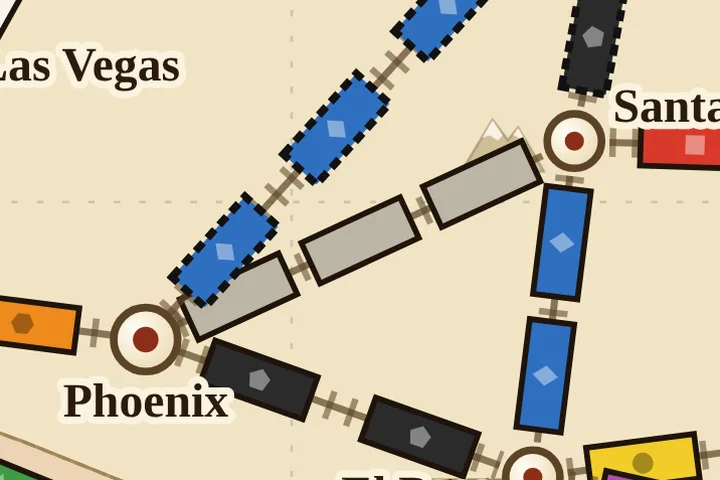
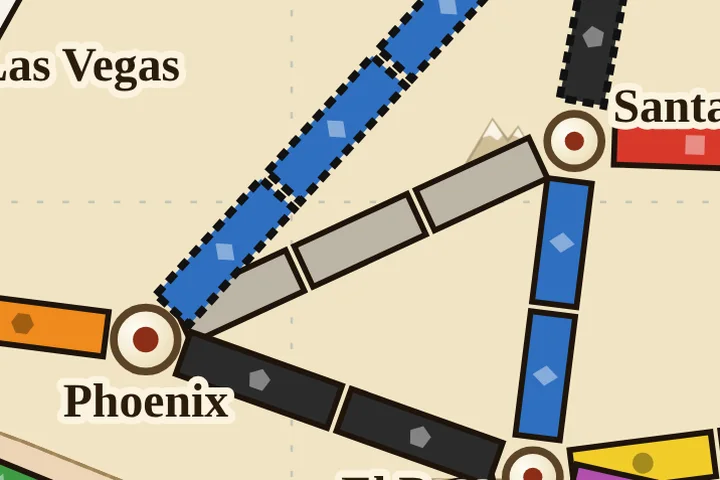
Đường Ray: trả lại ô tuyến liền nhau như cũ, giữ uốn cong tuyến ngắn/đè thành phố
Claude-Session: https://claude.ai/code/session_01C6iMujCmX6wKKq45Tr3EAE

diff --git a/games/duong-ray-chau-au/luat.html b/games/duong-ray-chau-au/luat.html
@@ -122,7 +122,7 @@ footer{text-align:center;color:#e9d6ae;font-size:14px;margin-top:10px}
 <p>Bạn và các đối thủ thi nhau xây mạng lưới đường sắt khắp châu Âu. Mỗi lượt bạn gom bài toa tàu cùng màu để chiếm các tuyến nối giữa hai thành phố, ghi điểm ngay khi chiếm. Bạn còn giữ các <b>vé hành trình</b>: nối được hai thành phố trên vé bằng tàu của mình thì cộng điểm, không nối được thì bị trừ.</p>
 <p>Bản đồ châu Âu có <b>49 thành phố</b>, 106 làn tuyến (trong đó 12 cặp đường đôi), <b>10 đường hầm</b> và <b>15 tuyến phà</b>. Tuyến dài nhất dài 5 ô.</p>
 
-<img class="shot" src="assets/rules/ui.webp?v=8" alt="Màn hình chơi Đường Ray Châu Âu" loading="lazy">
+<img class="shot" src="assets/rules/ui.webp?v=9" alt="Màn hình chơi Đường Ray Châu Âu" loading="lazy">
 <p class="cap">Màn hình chơi: người chơi ở trên, bản đồ ở giữa, bên phải là chỗ lấy bài, vé của bạn và nhật ký.</p></section><section class="box" id="thanh-phan"><h2><span class="no">2</span>Thành phần</h2>
 <div class="tw"><table class="t">
 <tr><th>Thành phần</th><th>Số lượng và công dụng</th></tr>
@@ -193,18 +193,18 @@ footer{text-align:center;color:#e9d6ae;font-size:14px;margin-top:10px}
 </ul>
 <div class="pts" style="--n:5"><div><span class="len"><i></i></span><b>1 ô</b><strong>1</strong><b>điểm</b></div><div><span class="len"><i></i><i></i></span><b>2 ô</b><strong>2</strong><b>điểm</b></div><div><span class="len"><i></i><i></i><i></i></span><b>3 ô</b><strong>4</strong><b>điểm</b></div><div><span class="len"><i></i><i></i><i></i><i></i></span><b>4 ô</b><strong>7</strong><b>điểm</b></div><div><span class="len"><i></i><i></i><i></i><i></i><i></i></span><b>5 ô</b><strong>10</strong><b>điểm</b></div></div>
 <div class="fig">
-  <div><img class="shot" src="assets/rules/claim.webp?v=8" alt="" loading="lazy"><p class="cap">Tuyến Paris–Marseille (Tím, 4 ô) đã bị chiếm: đoàn tàu của người chơi Đỏ nằm đè lên tuyến.</p></div>
+  <div><img class="shot" src="assets/rules/claim.webp?v=9" alt="" loading="lazy"><p class="cap">Tuyến Paris–Marseille (Tím, 4 ô) đã bị chiếm: đoàn tàu của người chơi Đỏ nằm đè lên tuyến.</p></div>
   <div class="vd" style="margin:0">Để chiếm tuyến Paris–Marseille màu Tím dài 4 ô, bạn đánh 3 lá Tím và 1 Đầu máy. Bạn đặt 4 toa, ghi ngay 7 điểm và còn 41 toa.
   <div class="hand"><figure class="tc sm"><img src="../../railart/cards/purple.webp" alt="Tím" loading="lazy"></figure><figure class="tc sm"><img src="../../railart/cards/purple.webp" alt="Tím" loading="lazy"></figure><figure class="tc sm"><img src="../../railart/cards/purple.webp" alt="Tím" loading="lazy"></figure><figure class="tc sm"><img src="../../railart/cards/loco.webp" alt="Đầu máy" loading="lazy"></figure></div></div>
 </div>
 <div class="fig">
-  <div><img class="shot" src="assets/rules/gray.webp?v=8" alt="" loading="lazy"><p class="cap">Tuyến xám Amsterdam–Frankfurt dài 2 ô.</p></div>
+  <div><img class="shot" src="assets/rules/gray.webp?v=9" alt="" loading="lazy"><p class="cap">Tuyến xám Amsterdam–Frankfurt dài 2 ô.</p></div>
   <div class="vd" style="margin:0">Tuyến xám Amsterdam–Frankfurt dài 2 ô trả bằng 2 lá Vàng, hoặc 2 lá Đen… miễn cùng một màu. Không được trả 1 lá Vàng + 1 lá Đen.
   <div class="hand"><span class="lbl">Được:</span><figure class="tc sm"><img src="../../railart/cards/yellow.webp" alt="Vàng" loading="lazy"></figure><figure class="tc sm"><img src="../../railart/cards/yellow.webp" alt="Vàng" loading="lazy"></figure></div></div>
 </div>
 <h4 style="margin:14px 0 4px;color:#7a1a36;font-size:19px">Đường đôi</h4>
 <div class="fig">
-  <div><img class="shot" src="assets/rules/dbl.webp?v=8" alt="" loading="lazy"><p class="cap">Đường đôi Madrid–Barcelona: hai làn song song, làn Trắng và làn Đỏ.</p></div>
+  <div><img class="shot" src="assets/rules/dbl.webp?v=9" alt="" loading="lazy"><p class="cap">Đường đôi Madrid–Barcelona: hai làn song song, làn Trắng và làn Đỏ.</p></div>
   <div><ul>
    <li>Một người <b>không được chiếm cả hai làn</b> của cùng một đường đôi.</li>
    <li>Chơi <b>2 hoặc 3 người</b>: một làn đã bị chiếm thì làn còn lại đóng với mọi người.</li>
@@ -214,7 +214,7 @@ footer{text-align:center;color:#e9d6ae;font-size:14px;margin-top:10px}
 
 <h3 id="duong-ham">Đường hầm</h3>
 <div class="fig">
-  <div><img class="shot" src="assets/rules/tunnel.webp?v=8" alt="" loading="lazy"><p class="cap">Đường hầm có viền <b>nét đứt</b>, ví dụ tuyến Barcelona–Bordeaux (Xanh dương, 3 ô).</p></div>
+  <div><img class="shot" src="assets/rules/tunnel.webp?v=9" alt="" loading="lazy"><p class="cap">Đường hầm có viền <b>nét đứt</b>, ví dụ tuyến Barcelona–Bordeaux (Xanh dương, 3 ô).</p></div>
   <div><ol>
    <li>Đánh bộ bài như chiếm tuyến thường.</li>
    <li>Máy lật <b>3 lá</b> trên cùng chồng bài úp.</li>
@@ -234,7 +234,7 @@ footer{text-align:center;color:#e9d6ae;font-size:14px;margin-top:10px}
 
 <h3 id="pha">Phà</h3>
 <div class="fig">
-  <div><img class="shot" src="assets/rules/ferry.webp?v=8" alt="" loading="lazy"><p class="cap">Tuyến phà London–Amsterdam dài 2 ô, có 2 ô in <b>ngôi sao Đầu máy</b>.</p></div>
+  <div><img class="shot" src="assets/rules/ferry.webp?v=9" alt="" loading="lazy"><p class="cap">Tuyến phà London–Amsterdam dài 2 ô, có 2 ô in <b>ngôi sao Đầu máy</b>.</p></div>
   <div><ul>
    <li>Phà là tuyến vượt biển. Mỗi ô có ngôi sao cần <b>1 lá Đầu máy</b>.</li>
    <li>Các ô còn lại trả bằng bài cùng một màu (phà luôn là tuyến xám).</li>
@@ -250,7 +250,7 @@ footer{text-align:center;color:#e9d6ae;font-size:14px;margin-top:10px}
 
 <h3 id="nha-ga">Việc 4: xây nhà ga</h3>
 <div class="fig">
-  <div><img class="shot" src="assets/rules/station.webp?v=8" alt="" loading="lazy"><p class="cap">Nhà ga Đỏ ở Lisboa. Tuyến Lisboa–Madrid là của người Xanh, hai tuyến Đỏ nằm hai bên.</p></div>
+  <div><img class="shot" src="assets/rules/station.webp?v=9" alt="" loading="lazy"><p class="cap">Nhà ga Đỏ ở Lisboa. Tuyến Lisboa–Madrid là của người Xanh, hai tuyến Đỏ nằm hai bên.</p></div>
   <div><ul>
    <li>Đặt nhà ga lên một thành phố <b>chưa có ga</b> nào. Không cần có tuyến của bạn ở đó.</li>
    <li>Giá tăng dần: ga thứ 1 tốn <b>1 lá</b>, ga thứ 2 tốn <b>2 lá cùng màu</b>, ga thứ 3 tốn <b>3 lá cùng màu</b>. Đầu máy thay được.</li>

diff --git a/games/duong-ray-bac-my/luat.html b/games/duong-ray-bac-my/luat.html
@@ -122,7 +122,7 @@ footer{text-align:center;color:#e9d6ae;font-size:14px;margin-top:10px}
 <p>Bạn và các đối thủ thi nhau xây mạng lưới đường sắt khắp Bắc Mỹ. Mỗi lượt bạn gom bài toa tàu cùng màu để chiếm các tuyến nối giữa hai thành phố, ghi điểm ngay khi chiếm. Bạn còn giữ các <b>vé hành trình</b>: nối được hai thành phố trên vé bằng tàu của mình thì cộng điểm, không nối được thì bị trừ.</p>
 <p>Bản đồ Bắc Mỹ có <b>39 thành phố</b>, 104 làn tuyến (trong đó 21 cặp đường đôi), <b>9 đường hầm</b> và <b>2 tuyến phà</b>. Tuyến dài nhất dài 7 ô.</p>
 <div class="note"><b>Khác với hộp Ticket to Ride USA gốc:</b> bản Bắc Mỹ trên web dùng chung bộ luật đầy đủ với bản Châu Âu, nên vẫn có đường hầm và phà (sang La Habana), nhưng <b>không có nhà ga</b>. Mỗi người nhận 1 vé dài và 3 vé thường lúc đầu.</div>
-<img class="shot" src="assets/rules/ui.webp?v=8" alt="Màn hình chơi Đường Ray Bắc Mỹ" loading="lazy">
+<img class="shot" src="assets/rules/ui.webp?v=9" alt="Màn hình chơi Đường Ray Bắc Mỹ" loading="lazy">
 <p class="cap">Màn hình chơi: người chơi ở trên, bản đồ ở giữa, bên phải là chỗ lấy bài, vé của bạn và nhật ký.</p></section><section class="box" id="thanh-phan"><h2><span class="no">2</span>Thành phần</h2>
 <div class="tw"><table class="t">
 <tr><th>Thành phần</th><th>Số lượng và công dụng</th></tr>
@@ -166,18 +166,18 @@ footer{text-align:center;color:#e9d6ae;font-size:14px;margin-top:10px}
 </ul>
 <div class="pts" style="--n:7"><div><span class="len"><i></i></span><b>1 ô</b><strong>1</strong><b>điểm</b></div><div><span class="len"><i></i><i></i></span><b>2 ô</b><strong>2</strong><b>điểm</b></div><div><span class="len"><i></i><i></i><i></i></span><b>3 ô</b><strong>4</strong><b>điểm</b></div><div><span class="len"><i></i><i></i><i></i><i></i></span><b>4 ô</b><strong>7</strong><b>điểm</b></div><div><span class="len"><i></i><i></i><i></i><i></i><i></i></span><b>5 ô</b><strong>10</strong><b>điểm</b></div><div><span class="len"><i></i><i></i><i></i><i></i><i></i><i></i></span><b>6 ô</b><strong>15</strong><b>điểm</b></div><div><span class="len"><i></i><i></i><i></i><i></i><i></i><i></i><i></i></span><b>7 ô</b><strong>18</strong><b>điểm</b></div></div>
 <div class="fig">
-  <div><img class="shot" src="assets/rules/claim.webp?v=8" alt="" loading="lazy"><p class="cap">Tuyến El Paso–Dallas (Vàng, 4 ô) đã bị chiếm: đoàn tàu của người chơi Đỏ nằm đè lên tuyến.</p></div>
+  <div><img class="shot" src="assets/rules/claim.webp?v=9" alt="" loading="lazy"><p class="cap">Tuyến El Paso–Dallas (Vàng, 4 ô) đã bị chiếm: đoàn tàu của người chơi Đỏ nằm đè lên tuyến.</p></div>
   <div class="vd" style="margin:0">Để chiếm tuyến El Paso–Dallas màu Vàng dài 4 ô, bạn đánh 3 lá Vàng và 1 Đầu máy. Bạn đặt 4 toa, ghi ngay 7 điểm và còn 41 toa.
   <div class="hand"><figure class="tc sm"><img src="../../railart/cards/yellow.webp" alt="Vàng" loading="lazy"></figure><figure class="tc sm"><img src="../../railart/cards/yellow.webp" alt="Vàng" loading="lazy"></figure><figure class="tc sm"><img src="../../railart/cards/yellow.webp" alt="Vàng" loading="lazy"></figure><figure class="tc sm"><img src="../../railart/cards/loco.webp" alt="Đầu máy" loading="lazy"></figure></div></div>
 </div>
 <div class="fig">
-  <div><img class="shot" src="assets/rules/gray.webp?v=8" alt="" loading="lazy"><p class="cap">Tuyến xám Phoenix–Santa Fe dài 3 ô.</p></div>
+  <div><img class="shot" src="assets/rules/gray.webp?v=9" alt="" loading="lazy"><p class="cap">Tuyến xám Phoenix–Santa Fe dài 3 ô.</p></div>
   <div class="vd" style="margin:0">Tuyến xám Phoenix–Santa Fe dài 3 ô trả bằng 3 lá Vàng, hoặc 3 lá Đen… miễn cùng một màu. Không được trả 2 lá Vàng + 1 lá Đen.
   <div class="hand"><span class="lbl">Được:</span><figure class="tc sm"><img src="../../railart/cards/yellow.webp" alt="Vàng" loading="lazy"></figure><figure class="tc sm"><img src="../../railart/cards/yellow.webp" alt="Vàng" loading="lazy"></figure><figure class="tc sm"><img src="../../railart/cards/yellow.webp" alt="Vàng" loading="lazy"></figure></div></div>
 </div>
 <h4 style="margin:14px 0 4px;color:#7a1a36;font-size:19px">Đường đôi</h4>
 <div class="fig">
-  <div><img class="shot" src="assets/rules/dbl.webp?v=8" alt="" loading="lazy"><p class="cap">Đường đôi San Francisco–Los Angeles: hai làn song song, làn Trắng và làn Đỏ.</p></div>
+  <div><img class="shot" src="assets/rules/dbl.webp?v=9" alt="" loading="lazy"><p class="cap">Đường đôi San Francisco–Los Angeles: hai làn song song, làn Trắng và làn Đỏ.</p></div>
   <div><ul>
    <li>Một người <b>không được chiếm cả hai làn</b> của cùng một đường đôi.</li>
    <li>Chơi <b>2 hoặc 3 người</b>: một làn đã bị chiếm thì làn còn lại đóng với mọi người.</li>
@@ -187,7 +187,7 @@ footer{text-align:center;color:#e9d6ae;font-size:14px;margin-top:10px}
 
 <h3 id="duong-ham">Đường hầm</h3>
 <div class="fig">
-  <div><img class="shot" src="assets/rules/tunnel.webp?v=8" alt="" loading="lazy"><p class="cap">Đường hầm có viền <b>nét đứt</b>, ví dụ tuyến Vancouver–Calgary (Cam, 3 ô).</p></div>
+  <div><img class="shot" src="assets/rules/tunnel.webp?v=9" alt="" loading="lazy"><p class="cap">Đường hầm có viền <b>nét đứt</b>, ví dụ tuyến Vancouver–Calgary (Cam, 3 ô).</p></div>
   <div><ol>
    <li>Đánh bộ bài như chiếm tuyến thường.</li>
    <li>Máy lật <b>3 lá</b> trên cùng chồng bài úp.</li>
@@ -207,7 +207,7 @@ footer{text-align:center;color:#e9d6ae;font-size:14px;margin-top:10px}
 
 <h3 id="pha">Phà</h3>
 <div class="fig">
-  <div><img class="shot" src="assets/rules/ferry.webp?v=8" alt="" loading="lazy"><p class="cap">Tuyến phà New Orleans–La Habana dài 4 ô, có 2 ô in <b>ngôi sao Đầu máy</b>.</p></div>
+  <div><img class="shot" src="assets/rules/ferry.webp?v=9" alt="" loading="lazy"><p class="cap">Tuyến phà New Orleans–La Habana dài 4 ô, có 2 ô in <b>ngôi sao Đầu máy</b>.</p></div>
   <div><ul>
    <li>Phà là tuyến vượt biển. Mỗi ô có ngôi sao cần <b>1 lá Đầu máy</b>.</li>
    <li>Các ô còn lại trả bằng bài cùng một màu (phà luôn là tuyến xám).</li>

diff --git a/games/duong-ray-bac-my/index.html b/games/duong-ray-bac-my/index.html
@@ -2164,12 +2164,11 @@ function routeSym(k,col){
   return k==='loco' ? `<g fill="${f}" stroke="#2a1200" stroke-width=".9" stroke-linejoin="round" pointer-events="none" transform="scale(1.95)">${d}</g>` : `<g fill="${f}" opacity="${o}" pointer-events="none">${d}</g>`;
 }
 function routeSVG(r, afford, now){
-  const g=routeGeom(r); const pad=13; const seg=(g.d-2*pad)/r.len; const w=RG_BOX;
+  const g=routeGeom(r); const pad=13; const seg=(g.d-2*pad)/r.len; const w=rgPitch(g,r.len)-3;
   const owner=G.owner[r.id]; const canClick = owner==null && isMyTurn() && !UIS.stationMode;
   const t=UIS.claimAt[r.id]; const el = t!=null ? now-t : 1e9; const fresh = el<2600 && G.owner[r.id]!=null;
   let s=`<g class="route ${canClick?'clickable':''} ${afford.has(r.id)?'afford':''} ${fresh?'glow':''}" data-id="${r.id}" ${fresh?`style="--gc:${G.players[owner].color};animation-delay:${-el}ms"`:''}>`;
   s+=`<path d="${g.path(pad,g.d-pad)}" fill="none" stroke="transparent" stroke-width="${HIT_W}"/>`;
-  if (owner==null){ const tp=g.path(pad-2,g.d-pad+2); s+=`<path d="${tp}" fill="none" stroke="#5b4327" stroke-width="9" stroke-dasharray="2 5" opacity=".55" pointer-events="none"/><path d="${tp}" fill="none" stroke="#5b4327" stroke-width="2.2" opacity=".7" pointer-events="none" transform="translate(0,0)"/>`; }
   const DK = .68; /* mọi đoàn tàu cùng cỡ, vừa làn đường đôi */
   if (owner!=null){ const pd=g.path(pad+1, g.d-pad-1);
     s+=`<g class="${fresh?'pop':''}" pointer-events="none"><path d="${pd}" fill="none" stroke="#fff" stroke-width="17" stroke-linecap="round" opacity=".95"/><path d="${pd}" fill="none" stroke="#111" stroke-width="${(24*DK).toFixed(1)}" stroke-linecap="round"/><path d="${pd}" fill="none" stroke="${G.players[owner].color}" stroke-width="6" stroke-linecap="round" opacity=".55"/></g>`; }
@@ -2177,7 +2176,7 @@ function routeSVG(r, afford, now){
     const tt=g.d/2+(i+0.5-r.len/2)*rgPitch(g,r.len); const q=g.at(tt); const cx=q.x.toFixed(1), cy=q.y.toFixed(1); let ga=q.ang; if(ga>90) ga-=180; if(ga<-90) ga+=180;
     s+=`<g transform="translate(${cx},${cy}) rotate(${ga.toFixed(1)})">`;
     if (owner!=null){
-      const col=G.players[owner].color, h=19*DK, W=RG_BOX+1, win=Math.min(6,W/4.5)*(DK<1?.8:1);
+      const col=G.players[owner].color, h=19*DK, W=rgPitch(g,r.len)-1.5, win=Math.min(6,W/4.5)*(DK<1?.8:1);
       const delay = fresh ? ((i+.5)/r.len*TRAIN_RUN_MS - el) : 0;
       s+=`<g class="${fresh?'pop':''}" ${fresh?`style="animation-delay:${delay.toFixed(0)}ms"`:''}>
         <rect x="${-W/2}" y="${-h/2}" width="${W}" height="${h}" rx="3.5" fill="${col}" stroke="#0b0b0b" stroke-width="2.6"/>

diff --git a/games/duong-ray-chau-au/index.html b/games/duong-ray-chau-au/index.html
@@ -2169,12 +2169,11 @@ function routeSym(k,col){
   return k==='loco' ? `<g fill="${f}" stroke="#2a1200" stroke-width=".9" stroke-linejoin="round" pointer-events="none" transform="scale(1.95)">${d}</g>` : `<g fill="${f}" opacity="${o}" pointer-events="none">${d}</g>`;
 }
 function routeSVG(r, afford, now){
-  const g=routeGeom(r); const pad=13; const seg=(g.d-2*pad)/r.len; const w=RG_BOX;
+  const g=routeGeom(r); const pad=13; const seg=(g.d-2*pad)/r.len; const w=rgPitch(g,r.len)-3;
   const owner=G.owner[r.id]; const canClick = owner==null && isMyTurn() && !UIS.stationMode;
   const t=UIS.claimAt[r.id]; const el = t!=null ? now-t : 1e9; const fresh = el<2600 && G.owner[r.id]!=null;
   let s=`<g class="route ${canClick?'clickable':''} ${afford.has(r.id)?'afford':''} ${fresh?'glow':''}" data-id="${r.id}" ${fresh?`style="--gc:${G.players[owner].color};animation-delay:${-el}ms"`:''}>`;
   s+=`<path d="${g.path(pad,g.d-pad)}" fill="none" stroke="transparent" stroke-width="${HIT_W}"/>`;
-  if (owner==null){ const tp=g.path(pad-2,g.d-pad+2); s+=`<path d="${tp}" fill="none" stroke="#5b4327" stroke-width="9" stroke-dasharray="2 5" opacity=".55" pointer-events="none"/><path d="${tp}" fill="none" stroke="#5b4327" stroke-width="2.2" opacity=".7" pointer-events="none" transform="translate(0,0)"/>`; }
   const DK = .68; /* mọi đoàn tàu cùng cỡ, vừa làn đường đôi */
   if (owner!=null){ const pd=g.path(pad+1, g.d-pad-1);
     s+=`<g class="${fresh?'pop':''}" pointer-events="none"><path d="${pd}" fill="none" stroke="#fff" stroke-width="17" stroke-linecap="round" opacity=".95"/><path d="${pd}" fill="none" stroke="#111" stroke-width="${(24*DK).toFixed(1)}" stroke-linecap="round"/><path d="${pd}" fill="none" stroke="${G.players[owner].color}" stroke-width="6" stroke-linecap="round" opacity=".55"/></g>`; }
@@ -2182,7 +2181,7 @@ function routeSVG(r, afford, now){
     const tt=g.d/2+(i+0.5-r.len/2)*rgPitch(g,r.len); const q=g.at(tt); const cx=q.x.toFixed(1), cy=q.y.toFixed(1); let ga=q.ang; if(ga>90) ga-=180; if(ga<-90) ga+=180;
     s+=`<g transform="translate(${cx},${cy}) rotate(${ga.toFixed(1)})">`;
     if (owner!=null){
-      const col=G.players[owner].color, h=19*DK, W=RG_BOX+1, win=Math.min(6,W/4.5)*(DK<1?.8:1);
+      const col=G.players[owner].color, h=19*DK, W=rgPitch(g,r.len)-1.5, win=Math.min(6,W/4.5)*(DK<1?.8:1);
       const delay = fresh ? ((i+.5)/r.len*TRAIN_RUN_MS - el) : 0;
       s+=`<g class="${fresh?'pop':''}" ${fresh?`style="animation-delay:${delay.toFixed(0)}ms"`:''}>
         <rect x="${-W/2}" y="${-h/2}" width="${W}" height="${h}" rx="3.5" fill="${col}" stroke="#0b0b0b" stroke-width="2.6"/>
